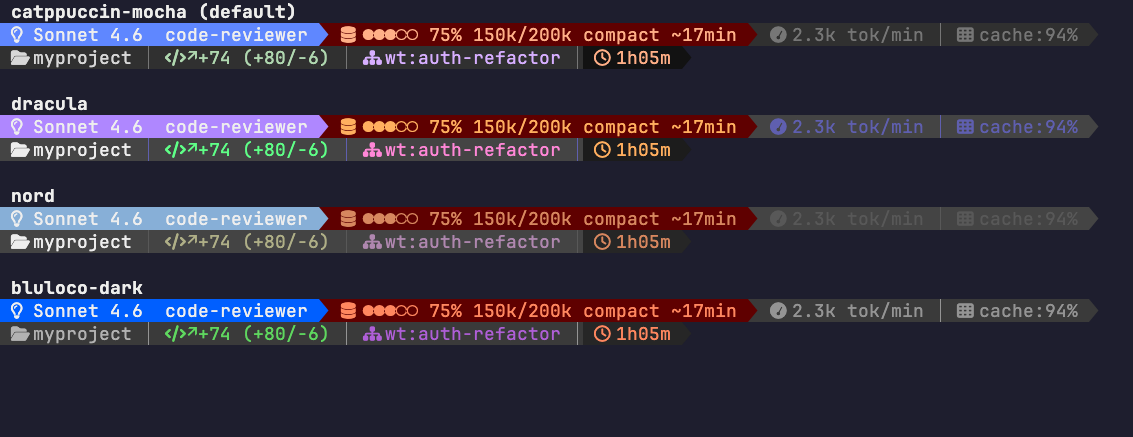
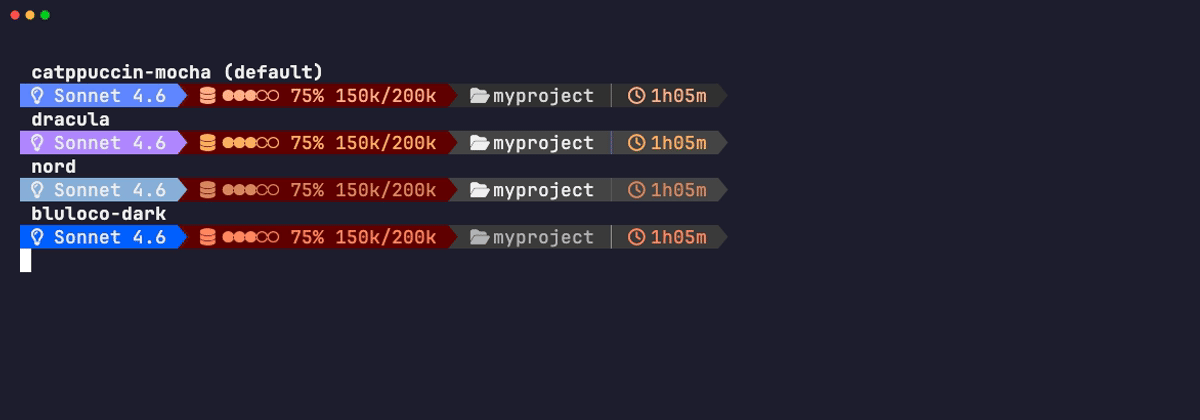
docs: rewrite README and regenerate screenshots with demo GIF
README rewritten for clarity: hero with animated demo GIF, segments
table, compact theme showcase, minimal config. Architecture and testing
details moved to CLAUDE.md and CONTRIBUTING.md.

Screenshots regenerated via VHS GIF extraction (ffmpeg). New demo.gif
cycles through all 4 themes and 3 layout tiers. Themes screenshot
uses compact tier for viewport fit.

diff --git a/README.md b/README.md
@@ -2,84 +2,48 @@
 
 # claude-code-statusline
 
-A custom status line for [Claude Code](https://docs.anthropic.com/en/docs/claude-code) with swappable themes, adaptive layout, and Powerline-style rendering.
+**A Powerline-style status line for [Claude Code](https://docs.anthropic.com/en/docs/claude-code)**
 
-Built entirely in POSIX `sh` -- no bash dependencies, no compiled binaries.
+See your model, context window, git state, and session metrics at a glance --
+with adaptive layout, swappable themes, and zero compiled dependencies.
 
 [![License: MIT](https://img.shields.io/badge/License-MIT-blue.svg)](LICENSE)
 [![POSIX sh](https://img.shields.io/badge/shell-POSIX%20sh-green.svg)]()
+[![CI](https://github.com/gfreschi/claude-code-statusline/actions/workflows/ci.yml/badge.svg)](https://github.com/gfreschi/claude-code-statusline/actions/workflows/ci.yml)
 
 </div>
 
-![Layout tiers](images/tiers.png)
+<br>
 
----
+<p align="center">
+  <img src="images/demo.gif" alt="Demo" width="800">
+</p>
 
-## Why?
-
-Claude Code ships with a minimal status line. If you want to see your context usage at a glance, know which model you're on, track session duration, or just want something that looks good in your terminal -- this replaces it with a Powerline-style bar that adapts to your terminal width and matches your color scheme.
-
-## Table of Contents
-
-- [Features](#features)
-- [Quick Start](#quick-start)
-- [Layout Tiers](#layout-tiers)
-- [Themes](#themes)
-- [Configuration](#configuration)
-- [Architecture](#architecture)
-- [Testing](#testing)
-- [Contributing](#contributing)
-- [License](#license)
-
----
-
-## Features
-
-- **Themeable** -- ships with 4 themes, create your own with 12 color variables
-- **Adaptive layout** -- automatically adjusts to terminal width (2-row, 1-row, or compact pill)
-- **Powerline arrows** between primary segments, thin pipes between secondary
-- **Context gauge** with dot indicators, token counts, and compaction ETA
-- **Model-aware coloring** -- Opus, Sonnet, and Haiku each get a distinct background
-- **Nerd Font support** with automatic fallback to ASCII
-- **OSC 8 hyperlinks** for project names and git branches (click to open on GitHub)
-- **Git integration** with branch, dirty state, ahead/behind, and stash count (cached with 5s TTL)
-- **Agent indicator** -- shows the active subagent name when dispatched
-- **Session metrics** -- burn rate (tok/min), cache hit ratio, lines changed, duration
-
----
-
-## Quick Start
-
-**One-liner install:**
+## Install
 
 ```sh
 sh -c "$(curl -fsSL https://raw.githubusercontent.com/gfreschi/claude-code-statusline/main/install.sh)"
 ```
 
-This clones the repo to `~/.claude/statusline` and configures Claude Code automatically. Restart Claude Code to activate.
+Restart Claude Code. Done.
 
-**Update:**
-
-```sh
-sh ~/.claude/statusline/install.sh update
-```
-
-**Uninstall:**
-
-```sh
-sh ~/.claude/statusline/install.sh uninstall
-```
+> Requires [`jq`](https://jqlang.github.io/jq/) and a 256-color terminal. A [Nerd Font](https://www.nerdfonts.com/) is recommended for icons (falls back to ASCII).
 
 <details>
-<summary>Manual installation</summary>
+<summary>Update / Uninstall / Manual setup</summary>
 
-**1. Clone:**
+```sh
+sh ~/.claude/statusline/install.sh update      # pull latest
+sh ~/.claude/statusline/install.sh uninstall   # remove completely
+```
+
+**Manual install** (if you prefer not to pipe curl):
 
 ```sh
 git clone https://github.com/gfreschi/claude-code-statusline.git ~/.claude/statusline
 ```
 
-**2. Configure Claude Code** -- add to `~/.claude/settings.json`:
+Add to `~/.claude/settings.json`:
 
 ```json
 {
@@ -87,210 +51,69 @@ git clone https://github.com/gfreschi/claude-code-statusline.git ~/.claude/statu
 }
 ```
 
-**3. Restart Claude Code.**
-
 </details>
 
-> **Upgrading from pre-1.0:** If you added custom themes to `themes/`, move them to `lib/themes/` after updating.
+## What You Get
 
-### Requirements
+The status line packs 11 segments into a Powerline-style bar:
 
-- POSIX-compatible shell (`sh`, `dash`, `bash`, `zsh`)
-- [`jq`](https://jqlang.github.io/jq/) for JSON parsing
-- A terminal with 256-color support
-- [Nerd Font](https://www.nerdfonts.com/) (optional, for icons)
+| Segment | What it shows |
+|---------|---------------|
+| **Model** | Current model (Opus / Sonnet / Haiku) with distinct color per model |
+| **Agent** | Active subagent name when one is dispatched |
+| **Context** | Dot gauge, percentage, token counts, and time until auto-compaction |
+| **Burn rate** | Tokens per minute consumption |
+| **Cache** | Cache hit ratio for the current session |
+| **Project** | Working directory name with clickable OSC 8 link |
+| **Git** | Branch, dirty flag, ahead/behind counts, stash count |
+| **Lines** | Net lines added/removed this session |
+| **Worktree** | Active git worktree indicator |
+| **Duration** | Session time with color escalation |
+| **Micro location** | Compact project + branch pill for narrow terminals |
 
----
+### Adapts to Your Terminal
 
-## Layout Tiers
+The layout automatically adjusts based on terminal width:
 
-The layout automatically adapts based on terminal width:
+<p align="center">
+  <img src="images/tiers.png" alt="Layout tiers" width="800">
+</p>
 
-| Tier | Width | Rows | Segments |
-|------|-------|------|----------|
-| **Full** | >= 120 | 2 | All 11 segments across two rows |
-| **Compact** | 80-119 | 1 | Model + context + git + duration |
-| **Micro** | < 80 | 1 | Abbreviated model + percentage + project/branch pill |
-
-### Full (>= 120 cols)
-
-```
-Row 1: [Model]>[Agent]>[Context gauge + compaction ETA]>[burn-rate | cache-stats]>
-Row 2: [Project | Git branch + details | Lines | Worktree]>[Duration]>
-```
-
-### Compact (80-119 cols)
-
-```
-[Model]>[Context dots % tokens]>[Project | Duration]>
-```
-
-### Micro (< 80 cols)
-
-```
-[Op 4.6]>[58%]>[project.. | branch..]>
-```
-
----
+| Tier | Width | Layout |
+|------|-------|--------|
+| **Full** | >= 120 cols | Two rows -- all 11 segments |
+| **Compact** | 80-119 cols | One row -- model, context, project, duration |
+| **Micro** | < 80 cols | Minimal pill -- abbreviated model, percentage, location |
 
 ## Themes
-
-![Bundled themes](images/themes.png)
 
 Four bundled themes. Set via environment variable:
 
 ```sh
-export CLAUDE_STATUSLINE_THEME="catppuccin-mocha"  # default
-export CLAUDE_STATUSLINE_THEME="bluloco-dark"
 export CLAUDE_STATUSLINE_THEME="dracula"
-export CLAUDE_STATUSLINE_THEME="nord"
 ```
 
-Falls back to `catppuccin-mocha` if the theme file is not found.
+Available: `catppuccin-mocha` (default), `bluloco-dark`, `dracula`, `nord`
 
-### Creating a Theme
-
-Create a file in `lib/themes/` with 12 palette variables:
-
-```sh
-#!/bin/sh
-# lib/themes/my-theme.sh
-
-PALETTE_BG=236          # terminal background
-PALETTE_FG=249          # default text
-PALETTE_BG_ALT=237      # muted/secondary background
-PALETTE_BG_DIM=235      # recessed background
-PALETTE_BLUE=33
-PALETTE_GOLD=221
-PALETTE_GREEN=77
-PALETTE_CYAN=80
-PALETTE_RED=204
-PALETTE_ORANGE=209
-PALETTE_MAGENTA=134
-PALETTE_DIM=243         # subdued text
-```
-
-The derivation layer (`derive.sh`) maps these 12 values to ~30 semantic tokens automatically. You can override any specific token directly in your theme file:
-
-```sh
-# Optional: override specific derived tokens
-C_SONNET_BG=27          # deeper blue for Sonnet model
-C_CTX_FILLING_BG=52     # dark red instead of derived value
-```
-
-Test your theme:
-
-```sh
-sh test/run.sh --scenario full --theme my-theme
-```
-
----
+**Create your own** with just 12 color variables -- see [CONTRIBUTING.md](CONTRIBUTING.md#adding-a-theme).
 
 ## Configuration
 
-| Environment Variable | Default | Description |
-|---------------------|---------|-------------|
-| `CLAUDE_STATUSLINE_THEME` | `catppuccin-mocha` | Theme name (filename without `.sh`) |
-| `CLAUDE_STATUSLINE_NERD_FONT` | `1` | Set to `0` to disable Nerd Font icons |
-| `CLAUDE_AUTOCOMPACT_PCT_OVERRIDE` | `95` | Context percentage at which compaction countdown targets |
+| Variable | Default | Description |
+|----------|---------|-------------|
+| `CLAUDE_STATUSLINE_THEME` | `catppuccin-mocha` | Theme name |
+| `CLAUDE_STATUSLINE_NERD_FONT` | `1` | Set to `0` to use ASCII fallbacks |
+| `CLAUDE_AUTOCOMPACT_PCT_OVERRIDE` | `95` | Compaction countdown target % |
 
----
+## How It Works
 
-## Architecture
+`main.sh` receives JSON from Claude Code via stdin, extracts fields with a single `jq` call, and outputs ANSI-colored Powerline rows. Git state is cached with a 5s TTL to avoid lag on large repos. The entire thing is POSIX `sh` -- works on `sh`, `dash`, `bash`, and `zsh`.
 
-```
-claude-code-statusline/
-  main.sh               # Entry point: JSON stdin -> ANSI rows
-  install.sh            # Install / update / uninstall
-  lib/
-    render.sh           # Rendering engine (emit_segment, render_row, etc.)
-    theme.sh            # Theme orchestrator (loads theme + derive)
-    derive.sh           # Maps 12 PALETTE_* -> ~30 C_* semantic tokens
-    cache.sh            # Git state cache with 5s TTL
-    segments/
-      model.sh          # Model name (Opus/Sonnet/Haiku), tier-colored
-      agent.sh          # Agent name (conditional)
-      context.sh        # Context gauge with dots, tokens, compaction ETA
-      burn-rate.sh      # Token consumption rate
-      cache-stats.sh    # Cache hit ratio
-      project.sh        # Project directory name
-      git.sh            # Branch, dirty, ahead/behind, stash
-      lines.sh          # Lines added/removed delta
-      worktree.sh       # Git worktree indicator
-      duration.sh       # Session duration with color escalation
-      micro-location.sh # Merged project+branch for micro tier
-    themes/
-      catppuccin-mocha.sh
-      bluloco-dark.sh
-      dracula.sh
-      nord.sh
-  test/
-    run.sh              # Test harness (visual + check modes)
-    fixtures/           # JSON scenario payloads
-```
-
-### Segment Weight System
-
-Segments are classified by visual weight, which determines their background and separator style:
-
-| Weight | Background | Separator | Use |
-|--------|-----------|-----------|-----|
-| **Primary** | Colored (per-segment) | Powerline arrow | Model, Context |
-| **Secondary** | Muted | Thin pipe | Project, Git |
-| **Tertiary** | Muted | Thin pipe | Burn-rate, Cache, Lines, Worktree |
-| **Recessed** | Dim | Thin pipe | Duration (full tier) |
-
-### How Segments Work
-
-Each segment is a pure data function that sets metadata variables. The orchestrator (`render_row` in `lib/render.sh`) handles all rendering:
-
-```sh
-segment_example() {
-  [ -z "$some_data" ] && return 1    # skip if no data
-
-  _seg_weight="secondary"            # primary|secondary|tertiary|recessed
-  _seg_min_tier="compact"            # micro|compact|full
-  _seg_group="workspace"             # session|workspace
-  _seg_content="my content"          # plain text, no ANSI
-  _seg_icon="$GL_FOLDER"             # Nerd Font glyph (optional)
-  _seg_bg=$C_MUTED_BG                # 256-color number
-  _seg_fg=$C_BASE_FG                 # 256-color number
-
-  return 0
-}
-```
-
-See [`CLAUDE.md`](CLAUDE.md) for the full segment contract, variable naming conventions, and architecture details.
-
----
-
-## Testing
-
-```sh
-# Visual: run a scenario across all 3 tiers
-sh test/run.sh --scenario full
-
-# Visual: specific theme
-sh test/run.sh --scenario full --theme dracula
-
-# Visual: all scenarios
-sh test/run.sh
-
-# CI: assert all 48 combinations (4 scenarios x 3 tiers x 4 themes)
-sh test/run.sh --check
-
-# CI: test under a specific shell
-sh test/run.sh --check --shell dash
-
-# Syntax check all files
-find . -name '*.sh' -not -path './.git/*' -print0 | xargs -0 -I{} sh -c 'sh -n "$1" || echo "FAIL: $1"' _ {}
-```
-
----
+See [CLAUDE.md](CLAUDE.md) for the full architecture reference.
 
 ## Contributing
 
-See [`CONTRIBUTING.md`](CONTRIBUTING.md) for development setup, style guide, and how to add segments or themes.
+Contributions welcome. See [CONTRIBUTING.md](CONTRIBUTING.md) for development setup, code style, and guides for adding segments and themes.
 
 ## License
 
